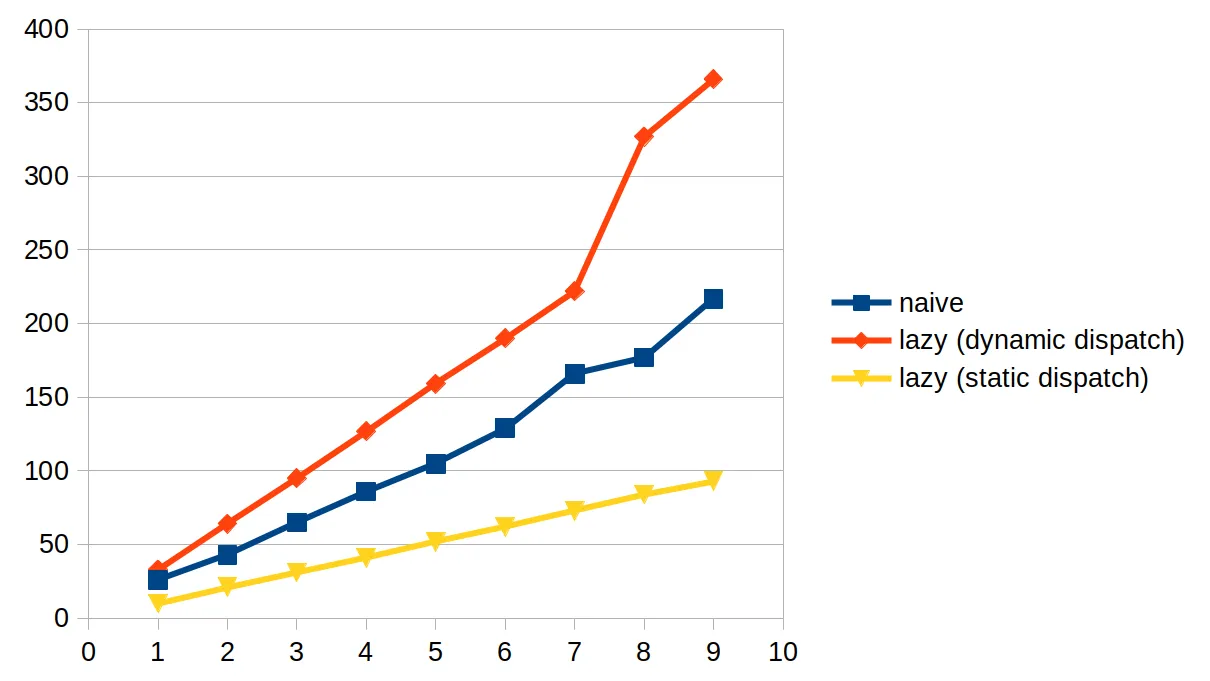
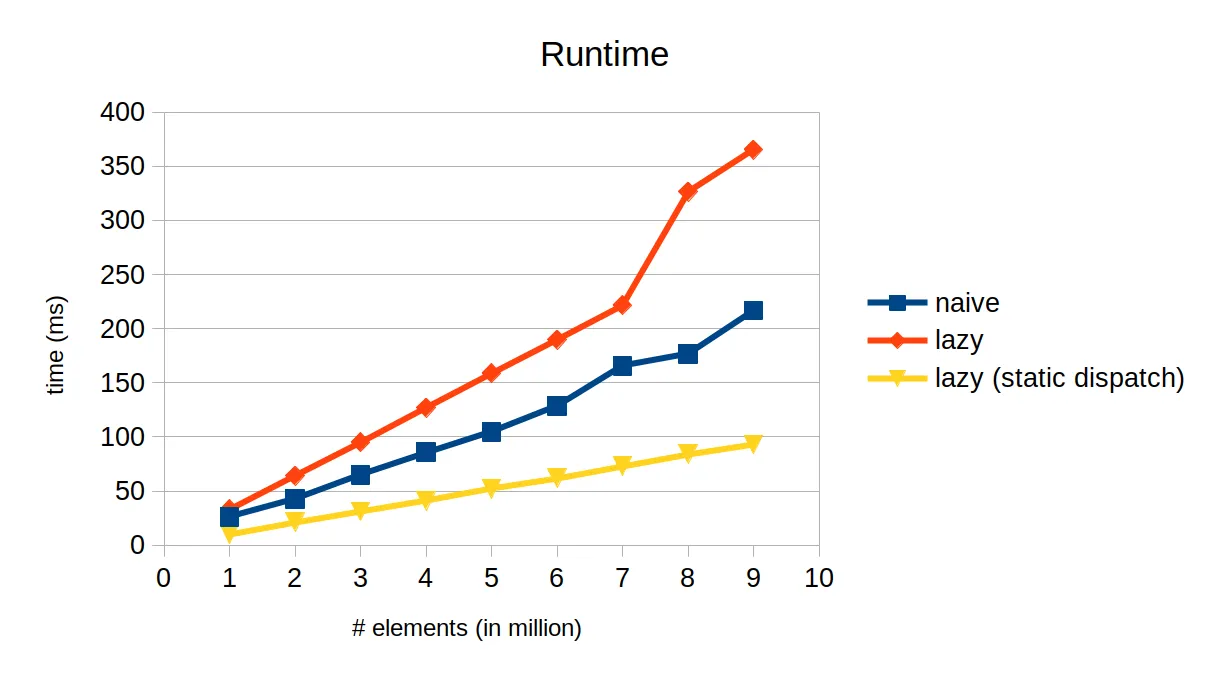
update readme

diff --git a/README.md b/README.md
@@ -12,7 +12,7 @@ cmake -DCMAKE_CXX_FLAGS=-O3 -Bbuild && make -Cbuild -j
 bash run_benchmark.sh
 ```
 
-This produces `result.tsv` file, which summarizes the runtime of `naive`, `lazy`, and `expr template` implementations for adding 10 vectors.
+This produces `result.tsv` file, which summarizes the runtime of `naive`, `lazy with dynamic dispatch`, and `lazy with static dispatch` implementations for adding 10 vectors.
 
 ## Benchmark Result on linux-x64
 ![](chart.webp)
